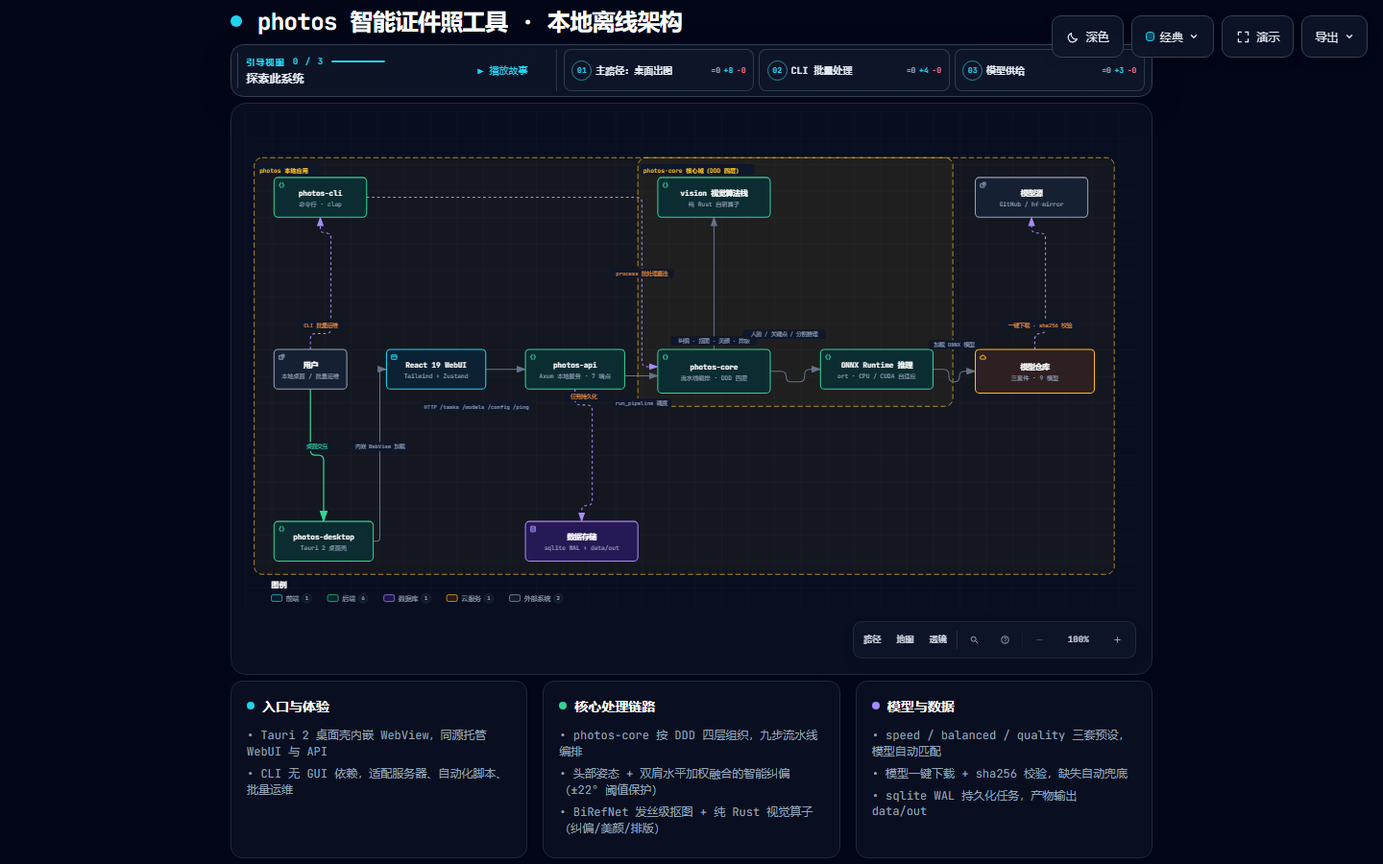
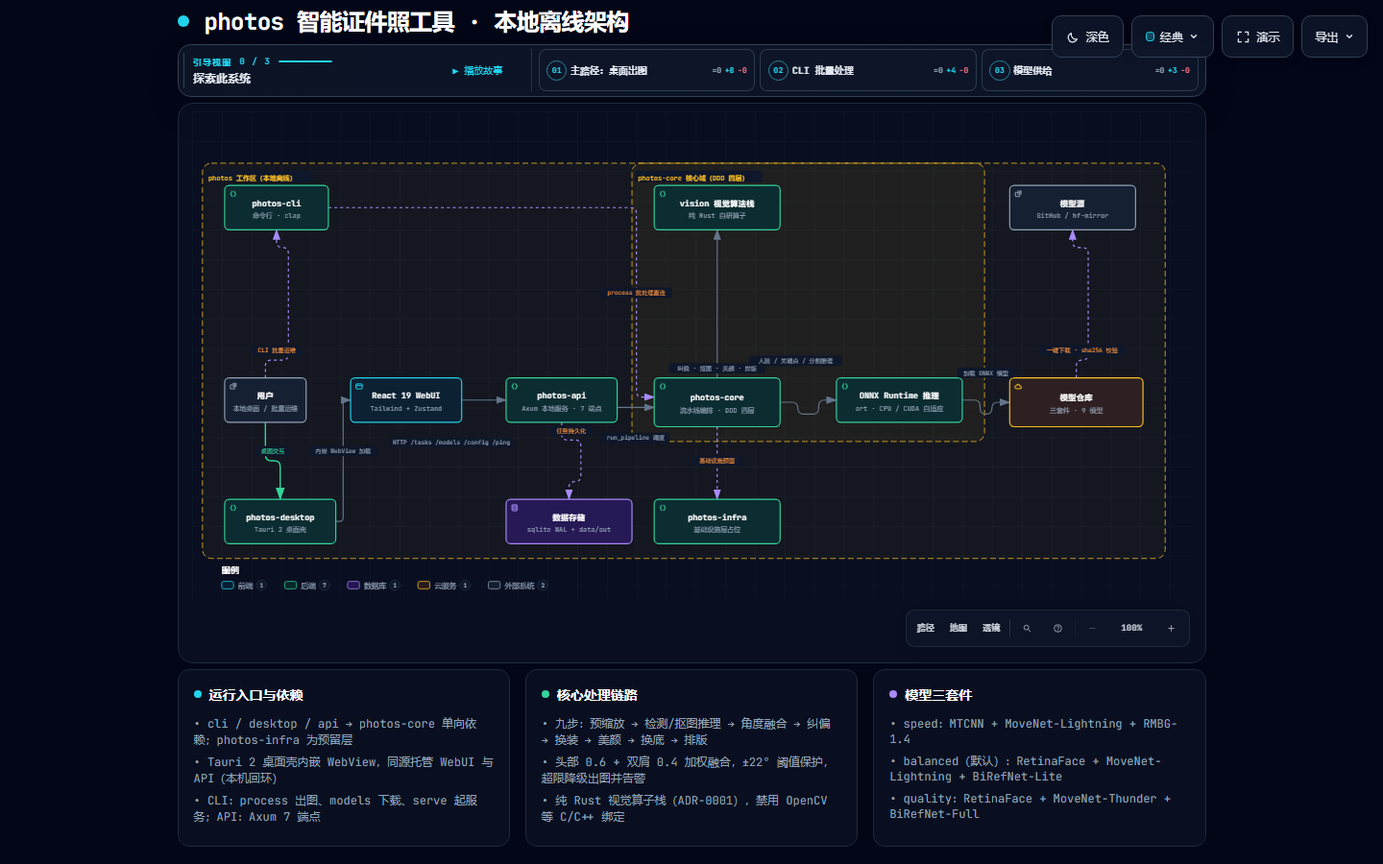
docs: 修正架构图窄视口纵向溢出并精简卡片
viewBox 高度 756 改为 660，底部支线行上移以压缩垂直布局；结论卡片由 4 张精简为 3 张单行要点。visual-check 在 1440x900、1600x1000、1920x1080、2048x1320 四档视口全部通过，展示档校验 9/9、0 错误 0 告警。

diff --git a/docs/arch/photos-architecture.html b/docs/arch/photos-architecture.html
@@ -5004,7 +5004,7 @@
     <!-- Main Diagram -->
     <div class="diagram-container" data-detail-level="read"
          data-preset-badge-editorial-plate="ARCHIFY / 图版 04">
-      <svg viewBox="0 0 1350 756" role="img" lang="zh-CN" aria-labelledby="archify-diagram-title archify-diagram-description" data-preset="classic" data-quality-profile="showcase">
+      <svg viewBox="0 0 1350 660" role="img" lang="zh-CN" aria-labelledby="archify-diagram-title archify-diagram-description" data-preset="classic" data-quality-profile="showcase">
         <title id="archify-diagram-title">photos 智能证件照工具 · 本地离线架构</title>
         <desc id="archify-diagram-description">由 Archify 生成的架构图。</desc>
         <!-- Definitions -->
@@ -5030,22 +5030,23 @@
         <rect width="100%" height="100%" fill="url(#grid)" />
 
         <!-- Boundaries (behind everything) -->
-        <rect data-graph-role="structural-frame" data-composition-frame-kind="region" data-composition-frame-id="0" data-composition-frame-label="photos 本地应用" x="14" y="70" width="1300" height="630" rx="12" class="c-region" stroke-width="1"/>
+        <rect data-graph-role="structural-frame" data-composition-frame-kind="region" data-composition-frame-id="0" data-composition-frame-label="photos 工作区（本地离线）" x="14" y="70" width="1300" height="534" rx="12" class="c-region" stroke-width="1"/>
 
         <rect data-graph-role="structural-frame" data-composition-frame-kind="region" data-composition-frame-id="1" data-composition-frame-label="photos-core 核心域（DDD 四层）" x="594" y="70" width="476" height="376" rx="12" class="c-region" stroke-width="1"/>
 
         <!-- Connection paths (before components for correct z-order) -->
-        <path data-edge-from="user" data-edge-to="desktop" data-edge-label="桌面交互" data-edge-key="0" data-edge-id="user-desktop" data-composition-points="99,420;99,520;119,520;119,620" d="M 99 420 L 99 512 Q 99 520 107 520 L 111 520 Q 119 520 119 528 L 119 620" class="a-emphasis" stroke-width="1.8" marker-end="url(#arrowhead-emphasis)"/>
-        <path data-edge-from="desktop" data-edge-to="webui" data-edge-label="内嵌 WebView 加载" data-edge-key="1" data-edge-id="desktop-webui" data-composition-points="194,650;204,650;204,390;214,390" d="M 194 650 L 199 650 Q 204 650 204 645 L 204 395 Q 204 390 209 390 L 214 390" class="a-default" stroke-width="1.5" marker-end="url(#arrowhead)"/>
+        <path data-edge-from="user" data-edge-to="desktop" data-edge-label="桌面交互" data-edge-key="0" data-edge-id="user-desktop" data-composition-points="99,420;99,472;119,472;119,524" d="M 99 420 L 99 464 Q 99 472 107 472 L 111 472 Q 119 472 119 480 L 119 524" class="a-emphasis" stroke-width="1.8" marker-end="url(#arrowhead-emphasis)"/>
+        <path data-edge-from="desktop" data-edge-to="webui" data-edge-label="内嵌 WebView 加载" data-edge-key="1" data-edge-id="desktop-webui" data-composition-points="194,554;204,554;204,390;214,390" d="M 194 554 L 199 554 Q 204 554 204 549 L 204 395 Q 204 390 209 390 L 214 390" class="a-default" stroke-width="1.5" marker-end="url(#arrowhead)"/>
         <path data-edge-from="webui" data-edge-to="api" data-edge-label="HTTP /tasks /models /config /ping" data-edge-key="2" data-edge-id="webui-api" data-composition-points="364,390;424,390" d="M 364 390 L 424 390" class="a-default" stroke-width="1.5" marker-end="url(#arrowhead)"/>
         <path data-edge-from="api" data-edge-to="pipeline" data-edge-label="run_pipeline 调度" data-edge-key="3" data-edge-id="api-pipeline" data-composition-points="574,400;624,400" d="M 574 400 L 624 400" class="a-default" stroke-width="1.5" marker-end="url(#arrowhead)"/>
         <path data-edge-from="pipeline" data-edge-to="vision" data-edge-label="纠偏 · 抠图 · 美颜 · 排版" data-edge-key="4" data-edge-id="pipeline-vision" data-composition-points="709,360;709,160" d="M 709 360 L 709 160" class="a-default" stroke-width="1.5" marker-end="url(#arrowhead)"/>
         <path data-edge-from="pipeline" data-edge-to="inference" data-edge-label="人脸 / 关键点 / 分割推理" data-edge-key="5" data-edge-id="pipeline-inference" data-composition-points="794,393;818,393;818,409;846,409;846,390;870,390" d="M 794 393 L 810 393 Q 818 393 818 401 L 818 401 Q 818 409 826 409 L 838 409 Q 846 409 846 401 L 846 398 Q 846 390 854 390 L 870 390" class="a-default" stroke-width="1.5" marker-end="url(#arrowhead)"/>
-        <path data-edge-from="api" data-edge-to="sqldb" data-edge-label="任务持久化" data-edge-key="6" data-edge-id="api-sqldb" data-composition-points="499,420;499,444;525,444;525,596;509,596;509,620" d="M 499 420 L 499 436 Q 499 444 507 444 L 517 444 Q 525 444 525 452 L 525 588 Q 525 596 517 596 L 517 596 Q 509 596 509 604 L 509 620" class="a-dashed" stroke-width="1.5" marker-end="url(#arrowhead-dashed)"/>
+        <path data-edge-from="api" data-edge-to="sqldb" data-edge-label="任务持久化" data-edge-key="6" data-edge-id="api-sqldb" data-composition-points="499,420;499,444;525,444;525,500;509,500;509,524" d="M 499 420 L 499 436 Q 499 444 507 444 L 517 444 Q 525 444 525 452 L 525 492 Q 525 500 517 500 L 517 500 Q 509 500 509 508 L 509 524" class="a-dashed" stroke-width="1.5" marker-end="url(#arrowhead-dashed)"/>
         <path data-edge-from="inference" data-edge-to="models" data-edge-label="加载 ONNX 模型" data-edge-key="7" data-edge-id="inference-models" data-composition-points="1040,390;1064,390;1064,409;1080,409;1080,393;1104,393" d="M 1040 390 L 1056 390 Q 1064 390 1064 398 L 1064 401 Q 1064 409 1072 409 L 1072 409 Q 1080 409 1080 401 L 1080 401 Q 1080 393 1088 393 L 1104 393" class="a-default" stroke-width="1.5" marker-end="url(#arrowhead)"/>
         <path data-edge-from="models" data-edge-to="dl-src" data-edge-label="一键下载 · sha256 校验" data-edge-key="8" data-edge-id="models-dlsrc" data-composition-points="1194,360;1194,336;1210,336;1210,184;1189,184;1189,160" d="M 1194 360 L 1194 344 Q 1194 336 1202 336 L 1202 336 Q 1210 336 1210 328 L 1210 192 Q 1210 184 1202 184 L 1197 184 Q 1189 184 1189 176 L 1189 160" class="a-dashed" stroke-width="1.5" marker-end="url(#arrowhead-dashed)"/>
         <path data-edge-from="cli" data-edge-to="pipeline" data-edge-label="process 批处理直连" data-edge-key="9" data-edge-id="cli-pipeline" data-composition-points="184,130;600,130;600,386;624,386" d="M 184 130 L 592 130 Q 600 130 600 138 L 600 378 Q 600 386 608 386 L 624 386" class="a-dashed" stroke-width="1.5" marker-end="url(#arrowhead-dashed)"/>
-        <path data-edge-from="user" data-edge-to="cli" data-edge-label="CLI 批量运维" data-edge-key="10" data-edge-id="user-cli" data-composition-points="99,360;99,336;130,336;130,184;114,184;114,160" d="M 99 360 L 99 344 Q 99 336 107 336 L 122 336 Q 130 336 130 328 L 130 192 Q 130 184 122 184 L 122 184 Q 114 184 114 176 L 114 160" class="a-dashed" stroke-width="1.5" marker-end="url(#arrowhead-dashed)"/>
+        <path data-edge-from="pipeline" data-edge-to="infra" data-edge-label="基础设施预留" data-edge-key="10" data-edge-id="pipeline-infra" data-composition-points="709,426;709,524" d="M 709 426 L 709 524" class="a-dashed" stroke-width="1.5" marker-end="url(#arrowhead-dashed)"/>
+        <path data-edge-from="user" data-edge-to="cli" data-edge-label="CLI 批量运维" data-edge-key="11" data-edge-id="user-cli" data-composition-points="99,360;99,336;130,336;130,184;114,184;114,160" d="M 99 360 L 99 344 Q 99 336 107 336 L 122 336 Q 130 336 130 328 L 130 192 Q 130 184 122 184 L 122 184 Q 114 184 114 176 L 114 160" class="a-dashed" stroke-width="1.5" marker-end="url(#arrowhead-dashed)"/>
 
         <!-- Components -->
         <g id="node-user" data-node-id="user" data-node-label="用户" tabindex="0" role="button" aria-label="聚焦用户，本地桌面 / 批量运维, 架构组件" aria-pressed="false" data-node-kind="external" data-node-sublabel="本地桌面 / 批量运维" data-node-context="架构组件">
@@ -5060,8 +5061,8 @@
         <text data-detail="context" x="99" y="404" class="t-muted" font-size="8.9" text-anchor="middle">本地桌面 / 批量运维</text>
         </g>
 
-        <g id="node-cli" data-node-id="cli" data-node-label="photos-cli" tabindex="0" role="button" aria-label="聚焦photos-cli，命令行 · clap, photos 本地应用" aria-pressed="false" data-node-kind="backend" data-node-sublabel="命令行 · clap" data-node-tag="process / serve / models" data-node-context="photos 本地应用">
-          <title>photos-cli · 命令行 · clap · photos 本地应用 · process / serve / models</title>
+        <g id="node-cli" data-node-id="cli" data-node-label="photos-cli" tabindex="0" role="button" aria-label="聚焦photos-cli，命令行 · clap, photos 工作区（本地离线）" aria-pressed="false" data-node-kind="backend" data-node-sublabel="命令行 · clap" data-node-tag="process / serve / models" data-node-context="photos 工作区（本地离线）">
+          <title>photos-cli · 命令行 · clap · photos 工作区（本地离线） · process / serve / models</title>
           <rect x="44" y="100" width="140" height="60" rx="6" class="c-mask"/>
           <rect x="44" y="100" width="140" height="60" rx="6" class="c-backend" stroke-width="1.5"/>
           <g aria-hidden="true" data-semantic-sigil="backend" class="semantic-sigil s-backend" transform="translate(50 106) scale(0.6875)">
@@ -5072,20 +5073,20 @@
         <text data-detail="fine" x="114" y="152" class="t-backend" font-size="7" text-anchor="middle">process / serve / models</text>
         </g>
 
-        <g id="node-desktop" data-node-id="desktop" data-node-label="photos-desktop" tabindex="0" role="button" aria-label="聚焦photos-desktop，Tauri 2 桌面壳, photos 本地应用" aria-pressed="false" data-node-kind="backend" data-node-sublabel="Tauri 2 桌面壳" data-node-tag="WebView 内嵌" data-node-context="photos 本地应用">
-          <title>photos-desktop · Tauri 2 桌面壳 · photos 本地应用 · WebView 内嵌</title>
-          <rect x="44" y="620" width="150" height="60" rx="6" class="c-mask"/>
-          <rect x="44" y="620" width="150" height="60" rx="6" class="c-backend" stroke-width="1.5"/>
-          <g aria-hidden="true" data-semantic-sigil="backend" class="semantic-sigil s-backend" transform="translate(50 626) scale(0.6875)">
+        <g id="node-desktop" data-node-id="desktop" data-node-label="photos-desktop" tabindex="0" role="button" aria-label="聚焦photos-desktop，Tauri 2 桌面壳, photos 工作区（本地离线）" aria-pressed="false" data-node-kind="backend" data-node-sublabel="Tauri 2 桌面壳" data-node-tag="WebView 内嵌" data-node-context="photos 工作区（本地离线）">
+          <title>photos-desktop · Tauri 2 桌面壳 · photos 工作区（本地离线） · WebView 内嵌</title>
+          <rect x="44" y="524" width="150" height="60" rx="6" class="c-mask"/>
+          <rect x="44" y="524" width="150" height="60" rx="6" class="c-backend" stroke-width="1.5"/>
+          <g aria-hidden="true" data-semantic-sigil="backend" class="semantic-sigil s-backend" transform="translate(50 530) scale(0.6875)">
             <path d="M6 3 3 8l3 5M10 3l3 5-3 5"/>
           </g>
-          <text data-node-label="" data-detail-anchor="" x="119" y="648" class="t-primary" font-size="11" font-weight="600" text-anchor="middle">photos-desktop</text>
-        <text data-detail="context" x="119" y="664" class="t-muted" font-size="9" text-anchor="middle">Tauri 2 桌面壳</text>
-        <text data-detail="fine" x="119" y="672" class="t-backend" font-size="7" text-anchor="middle">WebView 内嵌</text>
+          <text data-node-label="" data-detail-anchor="" x="119" y="552" class="t-primary" font-size="11" font-weight="600" text-anchor="middle">photos-desktop</text>
+        <text data-detail="context" x="119" y="568" class="t-muted" font-size="9" text-anchor="middle">Tauri 2 桌面壳</text>
+        <text data-detail="fine" x="119" y="576" class="t-backend" font-size="7" text-anchor="middle">WebView 内嵌</text>
         </g>
 
-        <g id="node-webui" data-node-id="webui" data-node-label="React 19 WebUI" tabindex="0" role="button" aria-label="聚焦React 19 WebUI，Tailwind + Zustand, photos 本地应用" aria-pressed="false" data-node-kind="frontend" data-node-sublabel="Tailwind + Zustand" data-node-context="photos 本地应用">
-          <title>React 19 WebUI · Tailwind + Zustand · photos 本地应用</title>
+        <g id="node-webui" data-node-id="webui" data-node-label="React 19 WebUI" tabindex="0" role="button" aria-label="聚焦React 19 WebUI，Tailwind + Zustand, photos 工作区（本地离线）" aria-pressed="false" data-node-kind="frontend" data-node-sublabel="Tailwind + Zustand" data-node-context="photos 工作区（本地离线）">
+          <title>React 19 WebUI · Tailwind + Zustand · photos 工作区（本地离线）</title>
           <rect x="214" y="360" width="150" height="60" rx="6" class="c-mask"/>
           <rect x="214" y="360" width="150" height="60" rx="6" class="c-frontend" stroke-width="1.5"/>
           <g aria-hidden="true" data-semantic-sigil="frontend" class="semantic-sigil s-frontend" transform="translate(220 366) scale(0.6875)">
@@ -5098,8 +5099,8 @@
         <text data-detail="context" x="289" y="404" class="t-muted" font-size="9" text-anchor="middle">Tailwind + Zustand</text>
         </g>
 
-        <g id="node-api" data-node-id="api" data-node-label="photos-api" tabindex="0" role="button" aria-label="聚焦photos-api，Axum 本地服务 · 7 端点, photos 本地应用" aria-pressed="false" data-node-kind="backend" data-node-sublabel="Axum 本地服务 · 7 端点" data-node-tag="127.0.0.1 随机端口" data-node-context="photos 本地应用">
-          <title>photos-api · Axum 本地服务 · 7 端点 · photos 本地应用 · 127.0.0.1 随机端口</title>
+        <g id="node-api" data-node-id="api" data-node-label="photos-api" tabindex="0" role="button" aria-label="聚焦photos-api，Axum 本地服务 · 7 端点, photos 工作区（本地离线）" aria-pressed="false" data-node-kind="backend" data-node-sublabel="Axum 本地服务 · 7 端点" data-node-tag="127.0.0.1 随机端口" data-node-context="photos 工作区（本地离线）">
+          <title>photos-api · Axum 本地服务 · 7 端点 · photos 工作区（本地离线） · 127.0.0.1 随机端口</title>
           <rect x="424" y="360" width="150" height="60" rx="6" class="c-mask"/>
           <rect x="424" y="360" width="150" height="60" rx="6" class="c-backend" stroke-width="1.5"/>
           <g aria-hidden="true" data-semantic-sigil="backend" class="semantic-sigil s-backend" transform="translate(430 366) scale(0.6875)">
@@ -5110,8 +5111,8 @@
         <text data-detail="fine" x="499" y="412" class="t-backend" font-size="7" text-anchor="middle">127.0.0.1 随机端口</text>
         </g>
 
-        <g id="node-pipeline" data-node-id="pipeline" data-node-label="photos-core" tabindex="0" role="button" aria-label="聚焦photos-core，流水线编排 · DDD 四层, photos 本地应用 › photos-core 核心域（DDD 四层）" aria-pressed="false" data-node-kind="backend" data-node-sublabel="流水线编排 · DDD 四层" data-node-tag="九步链路" data-node-context="photos 本地应用 › photos-core 核心域（DDD 四层）">
-          <title>photos-core · 流水线编排 · DDD 四层 · photos 本地应用 › photos-core 核心域（DDD 四层） · 九步链路</title>
+        <g id="node-pipeline" data-node-id="pipeline" data-node-label="photos-core" tabindex="0" role="button" aria-label="聚焦photos-core，流水线编排 · DDD 四层, photos 工作区（本地离线） › photos-core 核心域（DDD 四层）" aria-pressed="false" data-node-kind="backend" data-node-sublabel="流水线编排 · DDD 四层" data-node-tag="九步链路" data-node-context="photos 工作区（本地离线） › photos-core 核心域（DDD 四层）">
+          <title>photos-core · 流水线编排 · DDD 四层 · photos 工作区（本地离线） › photos-core 核心域（DDD 四层） · 九步链路</title>
           <rect x="624" y="360" width="170" height="66" rx="6" class="c-mask"/>
           <rect x="624" y="360" width="170" height="66" rx="6" class="c-backend" stroke-width="1.5"/>
           <g aria-hidden="true" data-semantic-sigil="backend" class="semantic-sigil s-backend" transform="translate(630 366) scale(0.6875)">
@@ -5122,8 +5123,8 @@
         <text data-detail="fine" x="709" y="418" class="t-backend" font-size="7" text-anchor="middle">九步链路</text>
         </g>
 
-        <g id="node-vision" data-node-id="vision" data-node-label="vision 视觉算法栈" tabindex="0" role="button" aria-label="聚焦vision 视觉算法栈，纯 Rust 自研算子, photos 本地应用 › photos-core 核心域（DDD 四层）" aria-pressed="false" data-node-kind="backend" data-node-sublabel="纯 Rust 自研算子" data-node-tag="纠偏/抠图/美颜/排版" data-node-context="photos 本地应用 › photos-core 核心域（DDD 四层）">
-          <title>vision 视觉算法栈 · 纯 Rust 自研算子 · photos 本地应用 › photos-core 核心域（DDD 四层） · 纠偏/抠图/美颜/排版</title>
+        <g id="node-vision" data-node-id="vision" data-node-label="vision 视觉算法栈" tabindex="0" role="button" aria-label="聚焦vision 视觉算法栈，纯 Rust 自研算子, photos 工作区（本地离线） › photos-core 核心域（DDD 四层）" aria-pressed="false" data-node-kind="backend" data-node-sublabel="纯 Rust 自研算子" data-node-tag="纠偏/抠图/美颜/排版" data-node-context="photos 工作区（本地离线） › photos-core 核心域（DDD 四层）">
+          <title>vision 视觉算法栈 · 纯 Rust 自研算子 · photos 工作区（本地离线） › photos-core 核心域（DDD 四层） · 纠偏/抠图/美颜/排版</title>
           <rect x="624" y="100" width="170" height="60" rx="6" class="c-mask"/>
           <rect x="624" y="100" width="170" height="60" rx="6" class="c-backend" stroke-width="1.5"/>
           <g aria-hidden="true" data-semantic-sigil="backend" class="semantic-sigil s-backend" transform="translate(630 106) scale(0.6875)">
@@ -5134,8 +5135,8 @@
         <text data-detail="fine" x="709" y="152" class="t-backend" font-size="7" text-anchor="middle">纠偏/抠图/美颜/排版</text>
         </g>
 
-        <g id="node-inference" data-node-id="inference" data-node-label="ONNX Runtime 推理" tabindex="0" role="button" aria-label="聚焦ONNX Runtime 推理，ort · CPU / CUDA 自适应, photos 本地应用 › photos-core 核心域（DDD 四层）" aria-pressed="false" data-node-kind="backend" data-node-sublabel="ort · CPU / CUDA 自适应" data-node-tag="人脸/关键点/分割" data-node-context="photos 本地应用 › photos-core 核心域（DDD 四层）">
-          <title>ONNX Runtime 推理 · ort · CPU / CUDA 自适应 · photos 本地应用 › photos-core 核心域（DDD 四层） · 人脸/关键点/分割</title>
+        <g id="node-inference" data-node-id="inference" data-node-label="ONNX Runtime 推理" tabindex="0" role="button" aria-label="聚焦ONNX Runtime 推理，ort · CPU / CUDA 自适应, photos 工作区（本地离线） › photos-core 核心域（DDD 四层）" aria-pressed="false" data-node-kind="backend" data-node-sublabel="ort · CPU / CUDA 自适应" data-node-tag="人脸/关键点/分割" data-node-context="photos 工作区（本地离线） › photos-core 核心域（DDD 四层）">
+          <title>ONNX Runtime 推理 · ort · CPU / CUDA 自适应 · photos 工作区（本地离线） › photos-core 核心域（DDD 四层） · 人脸/关键点/分割</title>
           <rect x="870" y="360" width="170" height="60" rx="6" class="c-mask"/>
           <rect x="870" y="360" width="170" height="60" rx="6" class="c-backend" stroke-width="1.5"/>
           <g aria-hidden="true" data-semantic-sigil="backend" class="semantic-sigil s-backend" transform="translate(876 366) scale(0.6875)">
@@ -5146,8 +5147,8 @@
         <text data-detail="fine" x="955" y="412" class="t-backend" font-size="7" text-anchor="middle">人脸/关键点/分割</text>
         </g>
 
-        <g id="node-models" data-node-id="models" data-node-label="模型仓库" tabindex="0" role="button" aria-label="聚焦模型仓库，三套件 · 9 模型, photos 本地应用" aria-pressed="false" data-node-kind="cloud" data-node-sublabel="三套件 · 9 模型" data-node-tag="models/" data-node-context="photos 本地应用">
-          <title>模型仓库 · 三套件 · 9 模型 · photos 本地应用 · models/</title>
+        <g id="node-models" data-node-id="models" data-node-label="模型仓库" tabindex="0" role="button" aria-label="聚焦模型仓库，三套件 · 9 模型, photos 工作区（本地离线）" aria-pressed="false" data-node-kind="cloud" data-node-sublabel="三套件 · 9 模型" data-node-tag="models/" data-node-context="photos 工作区（本地离线）">
+          <title>模型仓库 · 三套件 · 9 模型 · photos 工作区（本地离线） · models/</title>
           <rect x="1104" y="360" width="180" height="66" rx="6" class="c-mask"/>
           <rect x="1104" y="360" width="180" height="66" rx="6" class="c-cloud" stroke-width="1.5"/>
           <g aria-hidden="true" data-semantic-sigil="cloud" class="semantic-sigil s-cloud" transform="translate(1110 366) scale(0.6875)">
@@ -5170,27 +5171,39 @@
         <text data-detail="context" x="1189" y="144" class="t-muted" font-size="9" text-anchor="middle">GitHub / hf-mirror</text>
         </g>
 
-        <g id="node-sqldb" data-node-id="sqldb" data-node-label="数据存储" tabindex="0" role="button" aria-label="聚焦数据存储，sqlite WAL + data/out, photos 本地应用" aria-pressed="false" data-node-kind="database" data-node-sublabel="sqlite WAL + data/out" data-node-tag="任务状态机" data-node-context="photos 本地应用">
-          <title>数据存储 · sqlite WAL + data/out · photos 本地应用 · 任务状态机</title>
-          <rect x="424" y="620" width="170" height="60" rx="6" class="c-mask"/>
-          <rect x="424" y="620" width="170" height="60" rx="6" class="c-database" stroke-width="1.5"/>
-          <g aria-hidden="true" data-semantic-sigil="database" class="semantic-sigil s-database" transform="translate(430 626) scale(0.6875)">
+        <g id="node-sqldb" data-node-id="sqldb" data-node-label="数据存储" tabindex="0" role="button" aria-label="聚焦数据存储，sqlite WAL + data/out, photos 工作区（本地离线）" aria-pressed="false" data-node-kind="database" data-node-sublabel="sqlite WAL + data/out" data-node-tag="任务状态机" data-node-context="photos 工作区（本地离线）">
+          <title>数据存储 · sqlite WAL + data/out · photos 工作区（本地离线） · 任务状态机</title>
+          <rect x="424" y="524" width="170" height="60" rx="6" class="c-mask"/>
+          <rect x="424" y="524" width="170" height="60" rx="6" class="c-database" stroke-width="1.5"/>
+          <g aria-hidden="true" data-semantic-sigil="database" class="semantic-sigil s-database" transform="translate(430 530) scale(0.6875)">
             <ellipse cx="8" cy="4" rx="5" ry="2"/>
             <path d="M3 4v8c0 1.1 2.2 2 5 2s5-.9 5-2V4M3 8c0 1.1 2.2 2 5 2s5-.9 5-2"/>
           </g>
-          <text data-node-label="" data-detail-anchor="" x="509" y="648" class="t-primary" font-size="11" font-weight="600" text-anchor="middle">数据存储</text>
-        <text data-detail="context" x="509" y="664" class="t-muted" font-size="9" text-anchor="middle">sqlite WAL + data/out</text>
-        <text data-detail="fine" x="509" y="672" class="t-database" font-size="7" text-anchor="middle">任务状态机</text>
+          <text data-node-label="" data-detail-anchor="" x="509" y="552" class="t-primary" font-size="11" font-weight="600" text-anchor="middle">数据存储</text>
+        <text data-detail="context" x="509" y="568" class="t-muted" font-size="9" text-anchor="middle">sqlite WAL + data/out</text>
+        <text data-detail="fine" x="509" y="576" class="t-database" font-size="7" text-anchor="middle">任务状态机</text>
+        </g>
+
+        <g id="node-infra" data-node-id="infra" data-node-label="photos-infra" tabindex="0" role="button" aria-label="聚焦photos-infra，基础设施层占位, photos 工作区（本地离线）" aria-pressed="false" data-node-kind="backend" data-node-sublabel="基础设施层占位" data-node-tag="待拆分迁入" data-node-context="photos 工作区（本地离线）">
+          <title>photos-infra · 基础设施层占位 · photos 工作区（本地离线） · 待拆分迁入</title>
+          <rect x="624" y="524" width="170" height="60" rx="6" class="c-mask"/>
+          <rect x="624" y="524" width="170" height="60" rx="6" class="c-backend" stroke-width="1.5"/>
+          <g aria-hidden="true" data-semantic-sigil="backend" class="semantic-sigil s-backend" transform="translate(630 530) scale(0.6875)">
+            <path d="M6 3 3 8l3 5M10 3l3 5-3 5"/>
+          </g>
+          <text data-node-label="" data-detail-anchor="" x="709" y="552" class="t-primary" font-size="11" font-weight="600" text-anchor="middle">photos-infra</text>
+        <text data-detail="context" x="709" y="568" class="t-muted" font-size="9" text-anchor="middle">基础设施层占位</text>
+        <text data-detail="fine" x="709" y="576" class="t-backend" font-size="7" text-anchor="middle">待拆分迁入</text>
         </g>
 
         <!-- Connection labels -->
         <g data-detail="context" data-edge-from="user" data-edge-to="desktop" data-edge-label="桌面交互" data-edge-key="0" data-edge-id="user-desktop">
-          <rect x="84.8" y="500" width="48.4" height="14" rx="3" class="c-mask"/>
-          <text x="109" y="510" class="t-backend" font-size="8" text-anchor="middle">桌面交互</text>
+          <rect x="84.8" y="452" width="48.4" height="14" rx="3" class="c-mask"/>
+          <text x="109" y="462" class="t-backend" font-size="8" text-anchor="middle">桌面交互</text>
         </g>
         <g data-detail="context" data-edge-from="desktop" data-edge-to="webui" data-edge-label="内嵌 WebView 加载" data-edge-key="1" data-edge-id="desktop-webui">
-          <rect x="158.2" y="500" width="91.6" height="14" rx="3" class="c-mask"/>
-          <text x="204" y="510" class="t-muted" font-size="8" text-anchor="middle">内嵌 WebView 加载</text>
+          <rect x="158.2" y="452" width="91.6" height="14" rx="3" class="c-mask"/>
+          <text x="204" y="462" class="t-muted" font-size="8" text-anchor="middle">内嵌 WebView 加载</text>
         </g>
         <g data-detail="context" data-edge-from="webui" data-edge-to="api" data-edge-label="HTTP /tasks /models /config /ping" data-edge-key="2" data-edge-id="webui-api">
           <rect x="265.8" y="440" width="168.4" height="14" rx="3" class="c-mask"/>
@@ -5224,15 +5237,19 @@
           <rect x="551.8" y="238" width="96.39999999999999" height="14" rx="3" class="c-mask"/>
           <text x="600" y="248" class="t-messagebus" font-size="8" text-anchor="middle">process 批处理直连</text>
         </g>
-        <g data-detail="context" data-edge-from="user" data-edge-to="cli" data-edge-label="CLI 批量运维" data-edge-key="10" data-edge-id="user-cli">
+        <g data-detail="context" data-edge-from="pipeline" data-edge-to="infra" data-edge-label="基础设施预留" data-edge-key="10" data-edge-id="pipeline-infra">
+          <rect x="675.2" y="465" width="67.6" height="14" rx="3" class="c-mask"/>
+          <text x="709" y="475" class="t-messagebus" font-size="8" text-anchor="middle">基础设施预留</text>
+        </g>
+        <g data-detail="context" data-edge-from="user" data-edge-to="cli" data-edge-label="CLI 批量运维" data-edge-key="11" data-edge-id="user-cli">
           <rect x="80.7" y="316" width="67.6" height="14" rx="3" class="c-mask"/>
           <text x="114.5" y="326" class="t-messagebus" font-size="8" text-anchor="middle">CLI 批量运维</text>
         </g>
 
         <!-- Boundary labels (foreground masks keep routes out of titles) -->
-        <g data-graph-role="structural-frame-label" data-composition-frame-id="0" data-composition-frame-kind="region" data-composition-frame-label="photos 本地应用">
-          <rect data-graph-role="structural-frame-label-mask" x="18" y="80" width="91" height="16" rx="3" class="c-mask"/>
-          <text data-boundary-label="" x="22" y="93" class="t-cloud" font-size="9" font-weight="600">photos 本地应用</text>
+        <g data-graph-role="structural-frame-label" data-composition-frame-id="0" data-composition-frame-kind="region" data-composition-frame-label="photos 工作区（本地离线）">
+          <rect data-graph-role="structural-frame-label-mask" x="18" y="80" width="145" height="16" rx="3" class="c-mask"/>
+          <text data-boundary-label="" x="22" y="93" class="t-cloud" font-size="9" font-weight="600">photos 工作区（本地离线）</text>
         </g>
 
         <g data-graph-role="structural-frame-label" data-composition-frame-id="1" data-composition-frame-kind="region" data-composition-frame-label="photos-core 核心域（DDD 四层）">
@@ -5242,26 +5259,26 @@
 
         <!-- Legend -->
         <g data-legend="" data-legend-bridge="">
-          <text x="40" y="720" class="t-primary" font-size="12" font-weight="650">图例</text>
-          <g data-legend-semantic-kind="frontend" data-legend-kind="frontend" data-legend-label="前端" data-legend-x="40" data-legend-baseline="740" data-legend-width="63">
-            <rect x="40" y="731" width="16" height="10" rx="2.5" class="c-frontend" stroke-width="1"/>
-            <text x="62" y="740" class="t-muted" font-size="10" font-weight="500">前端</text>
+          <text x="40" y="624" class="t-primary" font-size="12" font-weight="650">图例</text>
+          <g data-legend-semantic-kind="frontend" data-legend-kind="frontend" data-legend-label="前端" data-legend-x="40" data-legend-baseline="644" data-legend-width="63">
+            <rect x="40" y="635" width="16" height="10" rx="2.5" class="c-frontend" stroke-width="1"/>
+            <text x="62" y="644" class="t-muted" font-size="10" font-weight="500">前端</text>
           </g>
-          <g data-legend-semantic-kind="backend" data-legend-kind="backend" data-legend-label="后端" data-legend-x="125" data-legend-baseline="740" data-legend-width="63">
-            <rect x="125" y="731" width="16" height="10" rx="2.5" class="c-backend" stroke-width="1"/>
-            <text x="147" y="740" class="t-muted" font-size="10" font-weight="500">后端</text>
+          <g data-legend-semantic-kind="backend" data-legend-kind="backend" data-legend-label="后端" data-legend-x="125" data-legend-baseline="644" data-legend-width="63">
+            <rect x="125" y="635" width="16" height="10" rx="2.5" class="c-backend" stroke-width="1"/>
+            <text x="147" y="644" class="t-muted" font-size="10" font-weight="500">后端</text>
           </g>
-          <g data-legend-semantic-kind="database" data-legend-kind="database" data-legend-label="数据库" data-legend-x="210" data-legend-baseline="740" data-legend-width="73">
-            <rect x="210" y="731" width="16" height="10" rx="2.5" class="c-database" stroke-width="1"/>
-            <text x="232" y="740" class="t-muted" font-size="10" font-weight="500">数据库</text>
+          <g data-legend-semantic-kind="database" data-legend-kind="database" data-legend-label="数据库" data-legend-x="210" data-legend-baseline="644" data-legend-width="73">
+            <rect x="210" y="635" width="16" height="10" rx="2.5" class="c-database" stroke-width="1"/>
+            <text x="232" y="644" class="t-muted" font-size="10" font-weight="500">数据库</text>
           </g>
-          <g data-legend-semantic-kind="cloud" data-legend-kind="cloud" data-legend-label="云服务" data-legend-x="305" data-legend-baseline="740" data-legend-width="73">
-            <rect x="305" y="731" width="16" height="10" rx="2.5" class="c-cloud" stroke-width="1"/>
-            <text x="327" y="740" class="t-muted" font-size="10" font-weight="500">云服务</text>
+          <g data-legend-semantic-kind="cloud" data-legend-kind="cloud" data-legend-label="云服务" data-legend-x="305" data-legend-baseline="644" data-legend-width="73">
+            <rect x="305" y="635" width="16" height="10" rx="2.5" class="c-cloud" stroke-width="1"/>
+            <text x="327" y="644" class="t-muted" font-size="10" font-weight="500">云服务</text>
           </g>
-          <g data-legend-semantic-kind="external" data-legend-kind="external" data-legend-label="外部系统" data-legend-x="400" data-legend-baseline="740" data-legend-width="83">
-            <rect x="400" y="731" width="16" height="10" rx="2.5" class="c-external" stroke-width="1"/>
-            <text x="422" y="740" class="t-muted" font-size="10" font-weight="500">外部系统</text>
+          <g data-legend-semantic-kind="external" data-legend-kind="external" data-legend-label="外部系统" data-legend-x="400" data-legend-baseline="644" data-legend-width="83">
+            <rect x="400" y="635" width="16" height="10" rx="2.5" class="c-external" stroke-width="1"/>
+            <text x="422" y="644" class="t-muted" font-size="10" font-weight="500">外部系统</text>
           </g>
         </g>
       </svg>
@@ -5453,11 +5470,12 @@
       <div class="card">
         <div class="card-header">
           <div class="card-dot cyan"></div>
-          <h3>入口与体验</h3>
+          <h3>运行入口与依赖</h3>
         </div>
         <ul>
-          <li>&bull; Tauri 2 桌面壳内嵌 WebView，同源托管 WebUI 与 API</li>
-          <li>&bull; CLI 无 GUI 依赖，适配服务器、自动化脚本、批量运维</li>
+          <li>&bull; cli / desktop / api → photos-core 单向依赖；photos-infra 为预留层</li>
+          <li>&bull; Tauri 2 桌面壳内嵌 WebView，同源托管 WebUI 与 API（本机回环）</li>
+          <li>&bull; CLI：process 出图、models 下载、serve 起服务；API：Axum 7 端点</li>
         </ul>
       </div>
 
@@ -5467,21 +5485,21 @@
           <h3>核心处理链路</h3>
         </div>
         <ul>
-          <li>&bull; photos-core 按 DDD 四层组织，九步流水线编排</li>
-          <li>&bull; 头部姿态 + 双肩水平加权融合的智能纠偏（±22° 阈值保护）</li>
-          <li>&bull; BiRefNet 发丝级抠图 + 纯 Rust 视觉算子（纠偏/美颜/排版）</li>
+          <li>&bull; 九步：预缩放 → 检测/抠图推理 → 角度融合 → 纠偏 → 换装 → 美颜 → 换底 → 排版</li>
+          <li>&bull; 头部 0.6 + 双肩 0.4 加权融合，±22° 阈值保护，超限降级出图并告警</li>
+          <li>&bull; 纯 Rust 视觉算子栈（ADR-0001），禁用 OpenCV 等 C/C++ 绑定</li>
         </ul>
       </div>
 
       <div class="card">
         <div class="card-header">
           <div class="card-dot violet"></div>
-          <h3>模型与数据</h3>
+          <h3>模型三套件</h3>
         </div>
         <ul>
-          <li>&bull; speed / balanced / quality 三套预设，模型自动匹配</li>
-          <li>&bull; 模型一键下载 + sha256 校验，缺失自动兜底</li>
-          <li>&bull; sqlite WAL 持久化任务，产物输出 data/out</li>
+          <li>&bull; speed：MTCNN + MoveNet-Lightning + RMBG-1.4</li>
+          <li>&bull; balanced（默认）：RetinaFace + MoveNet-Lightning + BiRefNet-Lite</li>
+          <li>&bull; quality：RetinaFace + MoveNet-Thunder + BiRefNet-Full</li>
         </ul>
       </div>
     </div>
